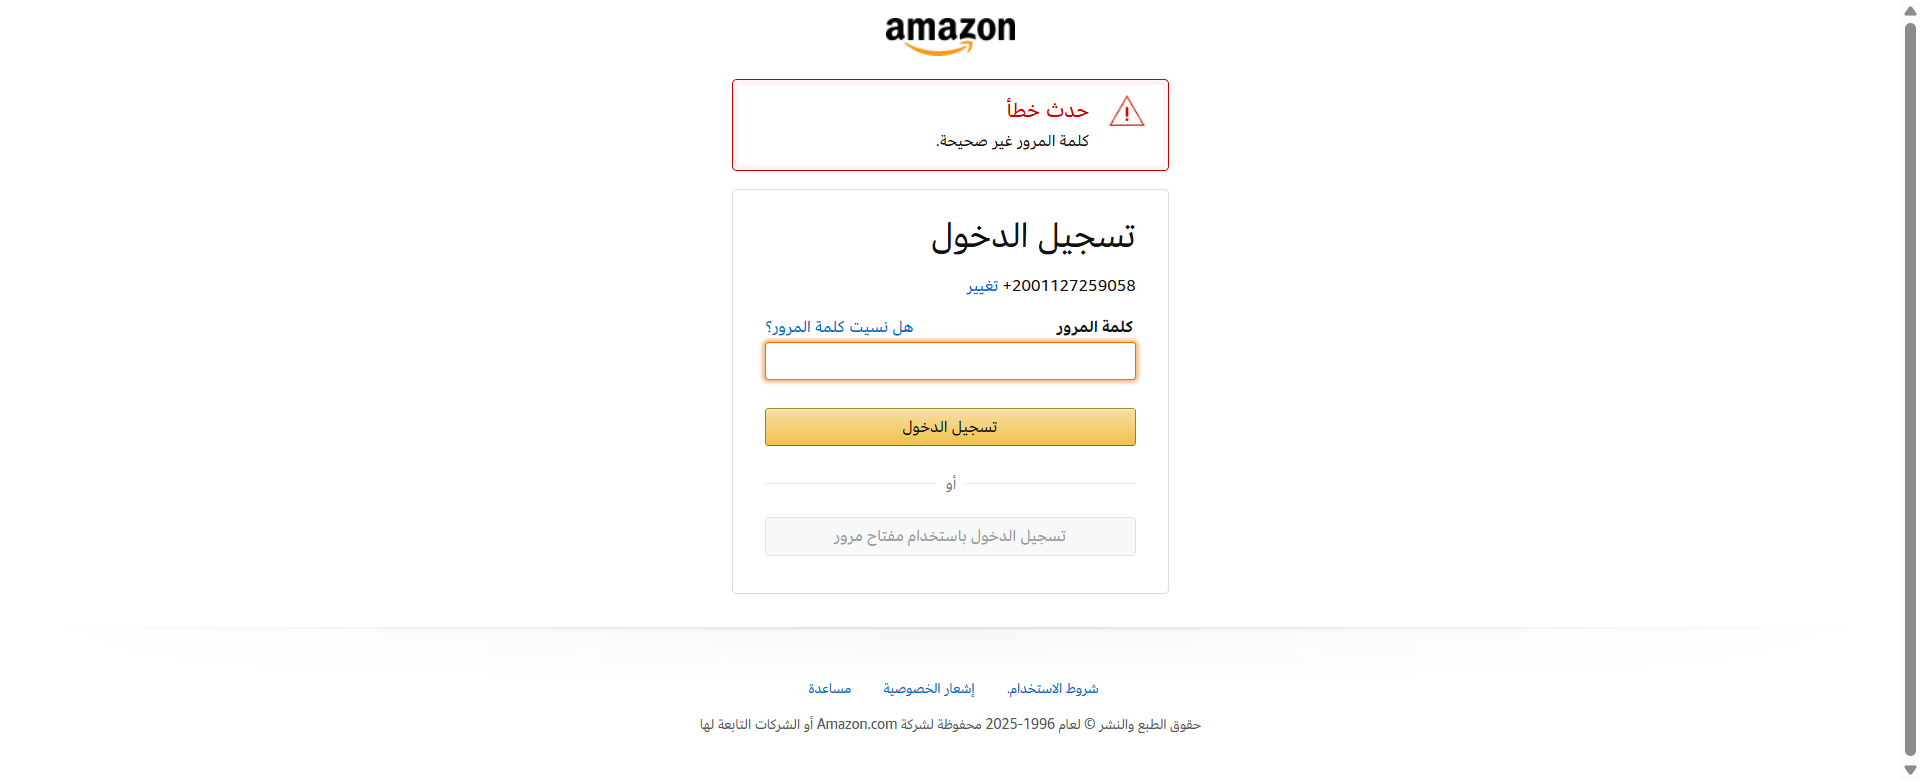
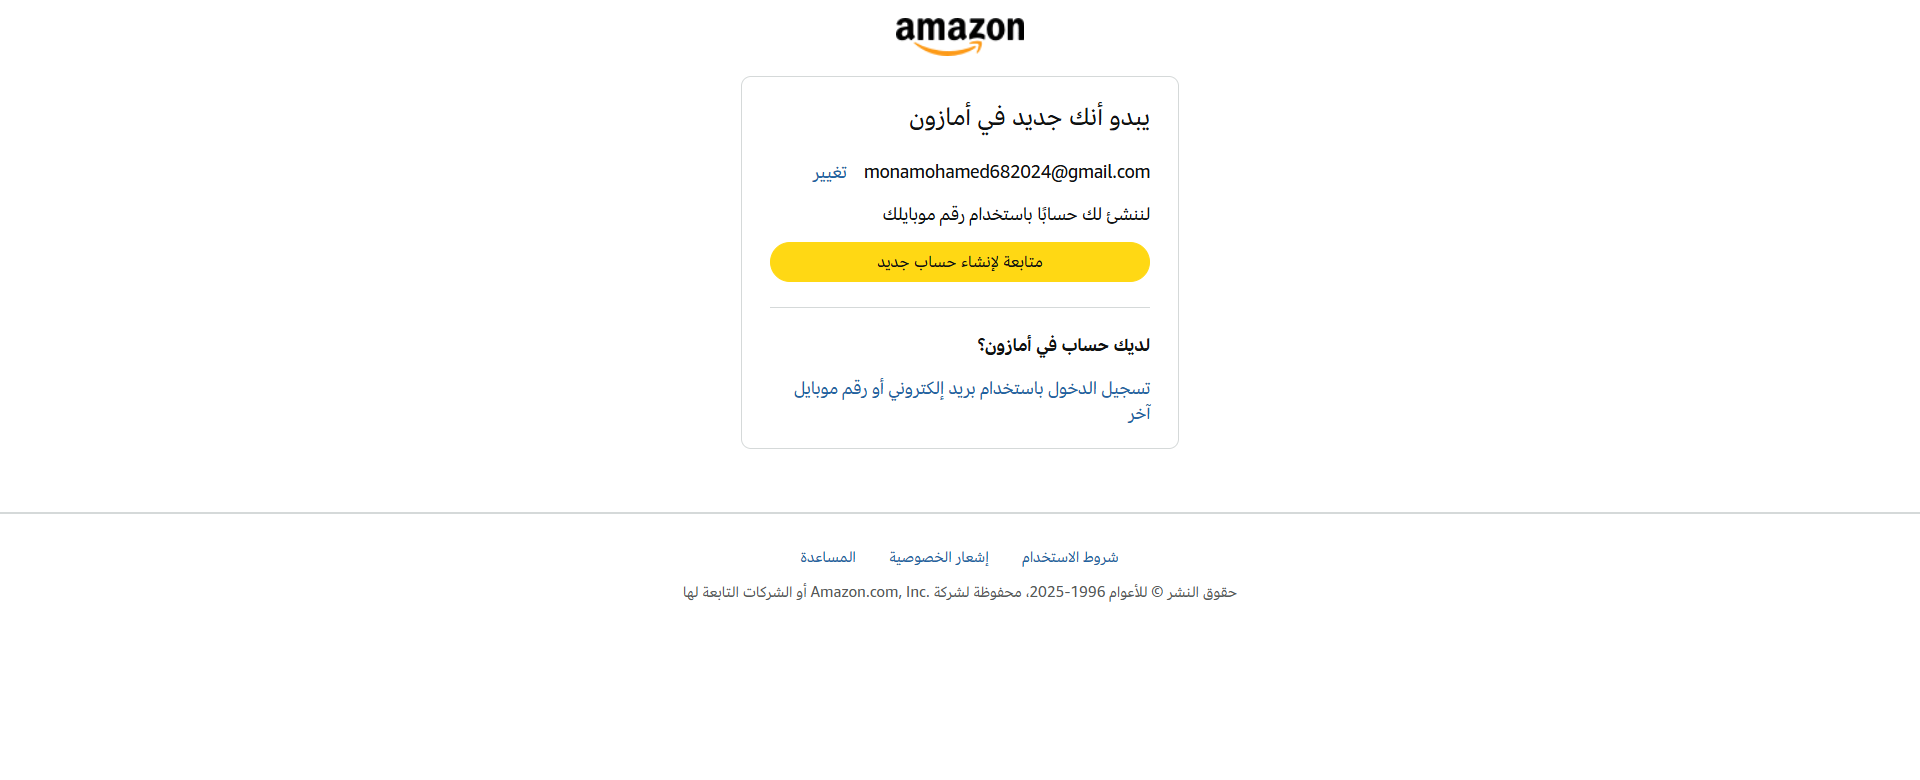
Add GitHub Actions CI

diff --git a/src/test/java/Test/TC01_Login.java b/src/test/java/Test/TC01_Login.java
@@ -11,7 +11,7 @@ public class TC01_Login extends TestBase {
         LoginDate=new LoginPage(driver);
         LoginDate.NavigateToLogin();
 
-        LoginDate.UserLogin("monamohamed682024@gmail.com",  "123456");
+        LoginDate.UserLogin("01223726424",  "123456");
 
     }
 }
